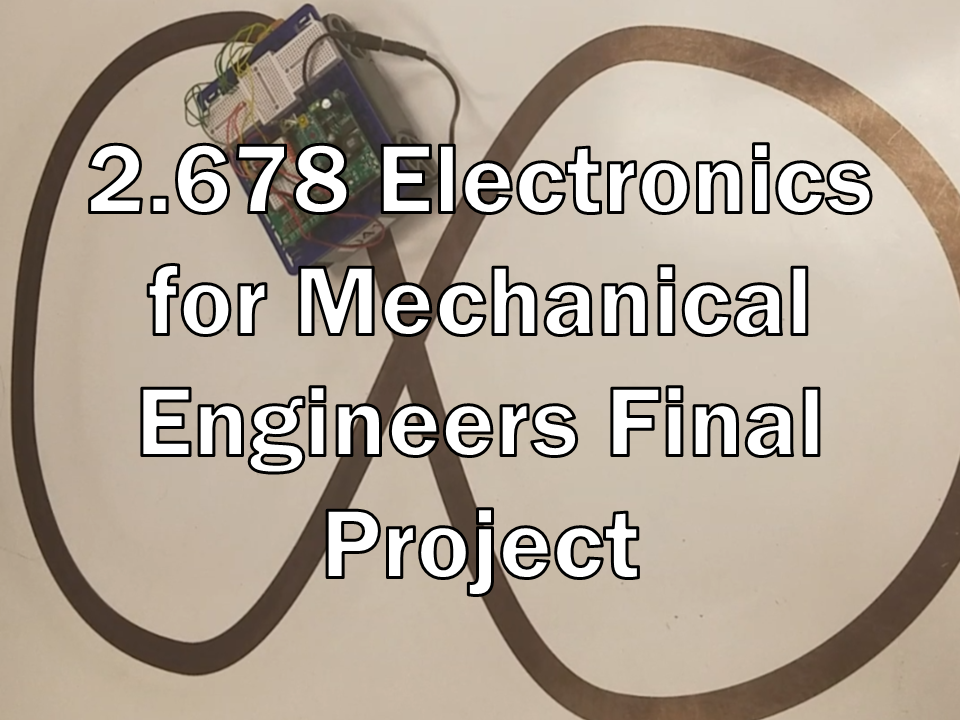
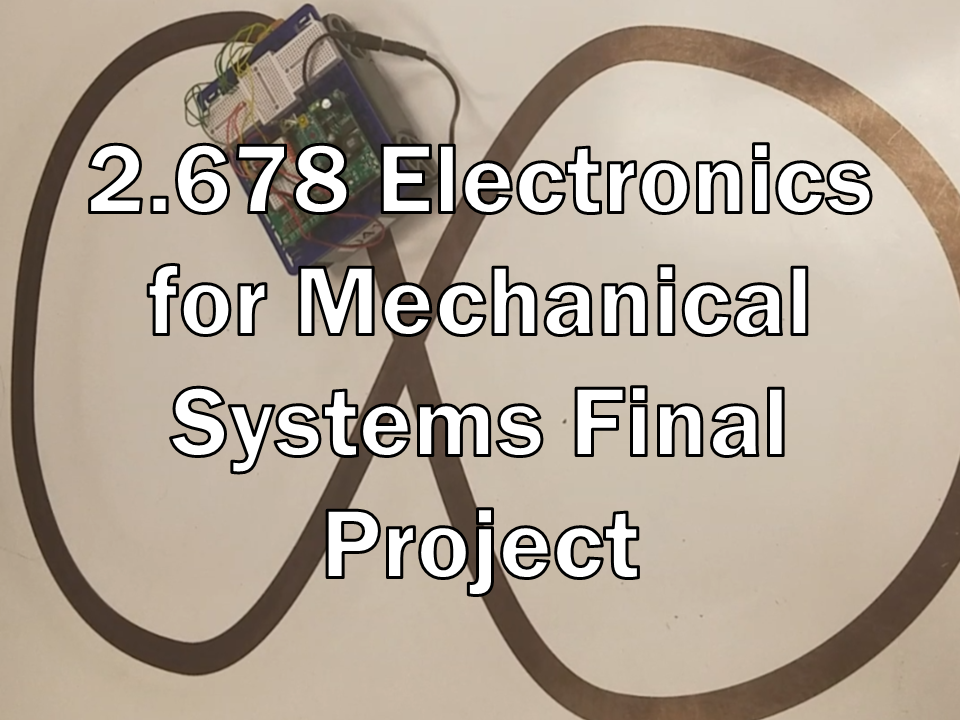
Update and Reformat Project Pages

Changed region(s): [[0.125, 0.5194, 0.875, 0.6722]]

diff --git a/_pages/projects/212Project.md b/_pages/projects/212Project.md
@@ -23,19 +23,61 @@ intro:
   - excerpt: "Introduction to Robotics"
 ---
 
-## About
+## Course Description (Excerpt)
 
-Introduction to Robotics.
+Cross-disciplinary studies in robot mechanics and intelligence. Emphasizes physical understanding of robot kinematics and dynamics, differential motion and energy method, design and control of robotic arms and mobile robots, and actuators, drives, and transmission. Second half of course focuses on algorithmic thinking and computation, computer vision and perception, planning and control for manipulation, localization and navigation, machine learning for robotics, and human-robot systems. Weekly laboratories include brushless DC motor control, design and fabrication of robotic arms and vehicles, robot vision and navigation, and programming and system integration using Robot Operating System (ROS). Group term project builds intelligent robots for specific applications of interest. 
 
-## Skills
+## About the Project
 
-Computer-Aided Design (Solidworks), 3D Printing, Arduino, C++
+Our group was asked to develop an assistive robot that can work side by side with a patient for daily chores.
+
+## My Contributions
+
+I was responsible for the design and maufacture of the 1-DoF, servo-controlled gripper end effector for the robot arm. 
+
+The scenario presented to us was:
+
+* A hemiplegic patient is unable to move one arm
+* The patient needs assistance in dressing and bed-making
+
+The robot must be desinged in a way so that it can complte three tasks:
+
+1. A robot arm assists the patient in pulling a drawer together with him/her, so the patient can take a garment out of the drawer
+2. The robot arm also assists the patient in donning a garment
+3. A mobile robot fetches a blanket and covers a bed with the blanket together with the patient
 
 {% capture fig_img %}
-![Foo]({{ '/assets/images/MARSS2024-FingerProxy-Cropped.png' | relative_url }})
+![Foo]({{ '/assets/images/212_Project/Gripper Assembly with Motor.png' | relative_url }})
 {% endcapture %}
 
 <figure>
   {{ fig_img | markdownify | remove: "<p>" | remove: "</p>" }}
-  <figcaption>Screenshot of Virtual Porcine Anatomy in Unity Scene.</figcaption>
+  <figcaption>Screenshot of Gripper CAD.</figcaption>
 </figure>
+
+
+{% capture fig_img %}
+![Foo]({{ '/assets/images/212_Project/Gripper_Pose1.png' | relative_url }})
+{% endcapture %}
+{% capture fig_img %}
+![Foo]({{ '/assets/images/212_Project/Gripper_Pose2.png' | relative_url }})
+{% endcapture %}
+
+<figure>
+  {{ fig_img | markdownify | remove: "<p>" | remove: "</p>" }}
+  <figcaption>The gripper</figcaption>
+</figure>
+
+
+{% capture fig_img %}
+![Foo]({{ '/assets/images/212_Project/2.12_Selfie.png' | relative_url }})
+{% endcapture %}
+
+<figure>
+  {{ fig_img | markdownify | remove: "<p>" | remove: "</p>" }}
+  <figcaption>Robot Selfie!!</figcaption>
+</figure>
+
+## Skills
+
+Computer-Aided Design (Solidworks), Laser Cutting, 3D Printing, Arduino, C++

diff --git a/_pages/projects/278Project.md b/_pages/projects/278Project.md
@@ -1,6 +1,6 @@
 ---
 layout: single
-title: "2.78 Principles and Practices of Assistive Technology Project"
+title: "2.78 Principles and Practice of Assistive Technology Project"
 permalink: /projects/278Project/
 author_profile: true
 header:
@@ -20,16 +20,18 @@ comments: false
 share: false
 related: true
 intro: 
-  - excerpt: "Principles and Practices of Assistive Technology"
+  - excerpt: "Principles and Practice of Assistive Technology"
 ---
+
+## Course Description (Excerpt)
+
+Students work closely with people with disabilities to develop assistive and adaptive technologies that help them live more independently. Covers design methods and problem-solving strategies; human factors; human-machine interfaces; community perspectives; social and ethical aspects; and assistive technology for motor, cognitive, perceptual, and age-related impairments. Prior knowledge of one or more of the following areas useful: software; electronics; human-computer interaction; cognitive science; mechanical engineering; control; or MIT hobby shop, MIT PSC, or other relevant independent project experience. 
 
 ## About
 
 Principles and Practice of Assistive Technology.
 
-## Skills
-
-Computer-Aided Design (Solidworks), 3D Printing
+## My Contributions
 
 {% capture fig_img %}
 ![Foo]({{ '/assets/images/MARSS2024-FingerProxy-Cropped.png' | relative_url }})
@@ -39,3 +41,7 @@ Computer-Aided Design (Solidworks), 3D Printing
   {{ fig_img | markdownify | remove: "<p>" | remove: "</p>" }}
   <figcaption>Screenshot of Virtual Porcine Anatomy in Unity Scene.</figcaption>
 </figure>
+
+## Skills
+
+Computer-Aided Design (Solidworks), 3D Printing

diff --git a/_pages/projects/2678Project.md b/_pages/projects/2678Project.md
@@ -23,13 +23,15 @@ intro:
   - excerpt: "Electronics for Mechanical Systems"
 ---
 
-## About
+## Course Description (Excerpt)
+
+Practical introduction to the fundamentals of electronics in the context of electro-mechanical systems, with emphasis on experimentation and project work in basic electronics. Laboratory exercises include the design and construction of simple electronic devices, such as power supplies, amplifiers, op-amp circuits, switched mode dc-dc converters, and dc motor drivers. Surveys embedded microcontrollers as system elements. Laboratory sessions stress the understanding of electronic circuits at the component level, but also point out the modern approach of system integration using commercial modules and specialized integrated circuits. 
+
+## About the Project
 
 Principles and Practice of Assistive Technology.
 
-## Skills
-
-Computer-Aided Design (Solidworks), 3D Printing, Arduino, C++
+## My Contributions
 
 {% capture fig_img %}
 ![Foo]({{ '/assets/images/MARSS2024-FingerProxy-Cropped.png' | relative_url }})
@@ -39,3 +41,7 @@ Computer-Aided Design (Solidworks), 3D Printing, Arduino, C++
   {{ fig_img | markdownify | remove: "<p>" | remove: "</p>" }}
   <figcaption>Screenshot of Virtual Porcine Anatomy in Unity Scene.</figcaption>
 </figure>
+
+## Skills
+
+Computer-Aided Design (Solidworks), 3D Printing, Arduino, C++

diff --git a/_pages/projects/2008Project.md b/_pages/projects/2008Project.md
@@ -27,7 +27,7 @@ intro:
 
 Integration of design, engineering, and management disciplines and practices for analysis and design of manufacturing enterprises. Emphasis is on the physics and stochastic nature of manufacturing processes and systems, and their effects on quality, rate, cost, and flexibility. Topics include process physics and control, design for manufacturing, and manufacturing systems. Group project requires design and fabrication of parts using mass-production and assembly methods to produce a product in quantity.
 
-## About
+## About the Project
 
 2.008 Design and Manufacturing II is a part of MIT's core undergraduate coursework for Mechanical Engineering (Course 2). The goals of the course are to teach students to apply the design thinking and engineering skills learned in previous semesters to practical manufacturing techniques. This course focuses on teaching the realitites of mass-prodcution of a design.
 
@@ -69,7 +69,7 @@ My main contributions to this project were:
 </figure>
 
 {% capture fig_img %}
-![Foo]({{ '/assets/images/2008_Project/PerformanceYoYo.jpg' | relative_url }})
+![Foo]({{ '/assets/images/2008_Project/Performance_Yoyo.jpg' | relative_url }})
 {% endcapture %}
 
 <figure>

diff --git a/_pages/projects/2THUProject.md b/_pages/projects/2THUProject.md
@@ -25,7 +25,7 @@ intro:
   - excerpt: "2.THU Undergrad Thesis"
 ---
 
-## About
+## About the Project
 
 2.THU Undergrad Thesis
 
@@ -34,9 +34,6 @@ intro:
 
 Feet!
 
-## Skills
-
-Computer-Aided Design (Solidworks), 3D Printing, Arduino, C++, Mechanical Stress Testing, Finite Element Analysis
 
 {% capture fig_img %}
 ![Foo]({{ '/assets/images/MARSS2024-FingerProxy-Cropped.png' | relative_url }})
@@ -46,3 +43,7 @@ Computer-Aided Design (Solidworks), 3D Printing, Arduino, C++, Mechanical Stress
   {{ fig_img | markdownify | remove: "<p>" | remove: "</p>" }}
   <figcaption>Screenshot of Virtual Porcine Anatomy in Unity Scene.</figcaption>
 </figure>
+
+## Skills
+
+Computer-Aided Design (Solidworks), 3D Printing, Arduino, C++, Mechanical Stress Testing, Finite Element Analysis

diff --git a/_pages/projects/me218BProject.md b/_pages/projects/me218BProject.md
@@ -31,9 +31,7 @@ For our final report, we made a website!
 
 <div markdown="0"><a href="https://mylifeasaduronrobot.weebly.com/" class="btn">MINI-PLANTING WITH THE MARTIAN!</a></div> 
 
-## Skills
-
-Computer-Aided Design (Solidworks), C, Arduino, 3D Printing, Haptic Modeling and Rendering
+## My Contributions
 
 {% capture fig_img %}
 ![Foo]({{ '/assets/images/MARSS2024-FingerProxy-Cropped.png' | relative_url }})
@@ -43,3 +41,7 @@ Computer-Aided Design (Solidworks), C, Arduino, 3D Printing, Haptic Modeling and
   {{ fig_img | markdownify | remove: "<p>" | remove: "</p>" }}
   <figcaption>Screenshot of Virtual Porcine Anatomy in Unity Scene.</figcaption>
 </figure>
+
+## Skills
+
+Computer-Aided Design (Solidworks), C, Arduino, 3D Printing, Haptic Modeling and Rendering

diff --git a/_pages/projects/me218AProject.md b/_pages/projects/me218AProject.md
@@ -30,9 +30,7 @@ For our final report, we made a website!
 
 <div markdown="0"><a href="https://miniplanting.weebly.com/" class="btn">MINI-PLANTING WITH THE MARTIAN!</a></div> 
 
-## Skills
-
-Computer-Aided Design (Solidworks), C, Arduino, 3D Printing, Haptic Modeling and Rendering
+## My Contributions
 
 {% capture fig_img %}
 ![Foo]({{ '/assets/images/MARSS2024-FingerProxy-Cropped.png' | relative_url }})
@@ -42,3 +40,7 @@ Computer-Aided Design (Solidworks), C, Arduino, 3D Printing, Haptic Modeling and
   {{ fig_img | markdownify | remove: "<p>" | remove: "</p>" }}
   <figcaption>Screenshot of Virtual Porcine Anatomy in Unity Scene.</figcaption>
 </figure>
+
+## Skills
+
+Computer-Aided Design (Solidworks), C, Arduino, 3D Printing, Haptic Modeling and Rendering

diff --git a/_pages/projects/2007Project.md b/_pages/projects/2007Project.md
@@ -29,7 +29,7 @@ Develops students' competence and self-confidence as design engineers. Emphasis 
 
 Class Website: https://sites.mit.edu/me-2007/
 
-## About
+## About the Project
 
 2.007 Design and Manufacturing I is a part of MIT's core undergraduate coursework for Mechanical Engineering (Course 2). The goals of the course are to teach students to apply the engineering skills learned in previous semesters to design thinking. The course also emphasizes the importance of maintaining a proper engineering notebook, properly documenting your design process, and justfying your design choices with engineering principles (and staying under budget).
 

diff --git a/_pages/projects/ee267Project.md b/_pages/projects/ee267Project.md
@@ -23,13 +23,11 @@ intro:
   - excerpt: "EE 267 Class Final Project"
 ---
 
-## About
+## About the Project
 
 Unity mini-game!
 
-## Skills
-
-Unity, C#, Arduino, 3D Printing, Haptic Modeling and Rendering
+## My Contributions
 
 {% capture fig_img %}
 ![Foo]({{ '/assets/images/MARSS2024-FingerProxy-Cropped.png' | relative_url }})
@@ -39,3 +37,7 @@ Unity, C#, Arduino, 3D Printing, Haptic Modeling and Rendering
   {{ fig_img | markdownify | remove: "<p>" | remove: "</p>" }}
   <figcaption>Screenshot of Virtual Porcine Anatomy in Unity Scene.</figcaption>
 </figure>
+
+## Skills
+
+Unity, C#, Arduino, 3D Printing, Haptic Modeling and Rendering

diff --git a/_pages/projects/marss2024Hacakthon.md b/_pages/projects/marss2024Hacakthon.md
@@ -23,13 +23,11 @@ intro:
   - excerpt: "MARSS 2024 Hacakthon"
 ---
 
-## About
+## About the Project
 
 Medical Mixed Reality simulation with haptic and auditory augmentations for laproscopic procedures.
 
-## Skills
-
-Unity, C#, Arduino, 3D Printing
+## My Contributions
 
 {% capture fig_img %}
 ![Foo]({{ '/assets/images/MARSS2024-FingerProxy-Cropped.png' | relative_url }})
@@ -39,3 +37,7 @@ Unity, C#, Arduino, 3D Printing
   {{ fig_img | markdownify | remove: "<p>" | remove: "</p>" }}
   <figcaption>Screenshot of Virtual Porcine Anatomy in Unity Scene.</figcaption>
 </figure>
+
+## Skills
+
+Unity, C#, Arduino, 3D Printing

diff --git a/_pages/projects/rad206Project.md b/_pages/projects/rad206Project.md
@@ -23,7 +23,7 @@ intro:
   - excerpt: "MARSS 2024 Hacakthon"
 ---
 
-## About
+## About the Project
 
 Medical Mixed Reality simulation with haptic augmentations for lumbar puncture procedures.
 
